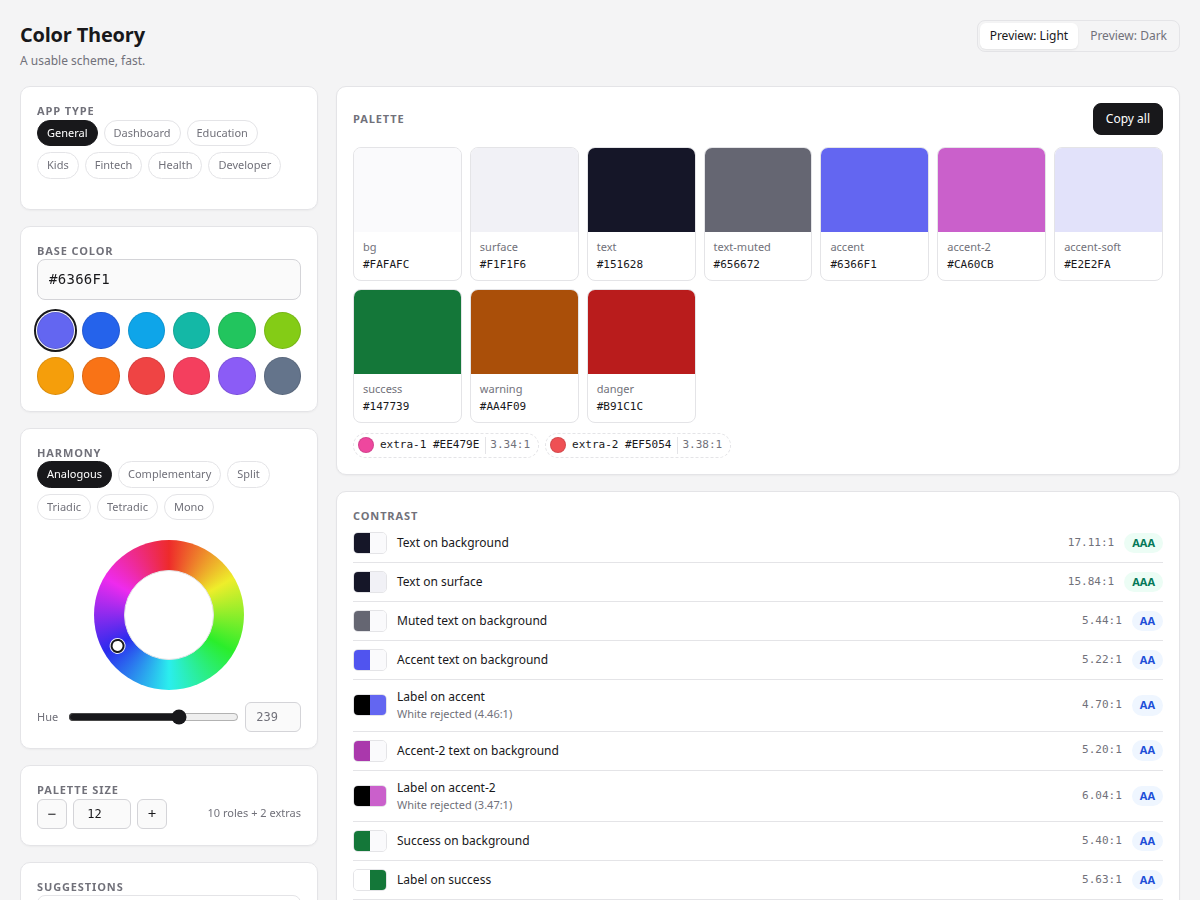
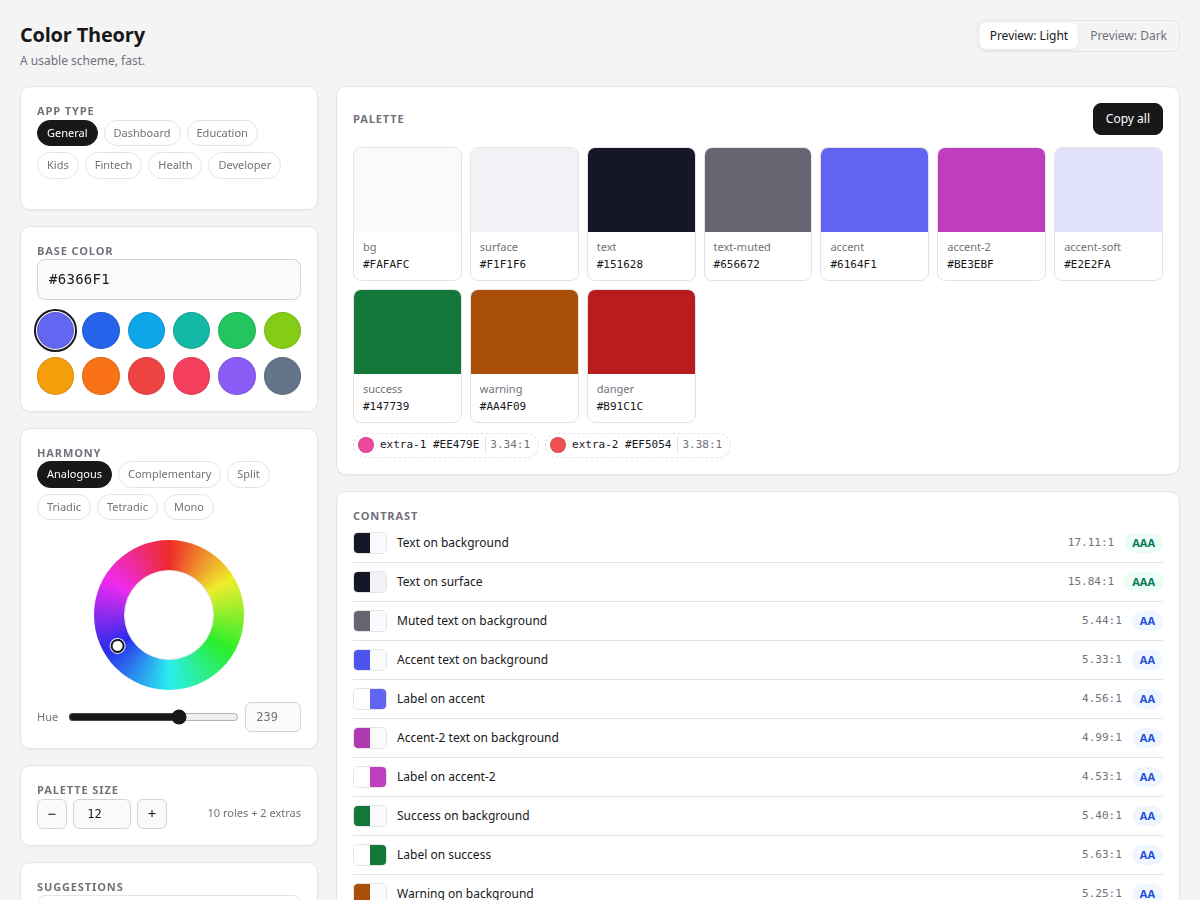
fix: pair every filled role with a label that suits it
Picking whichever of white and black had the higher ratio turned most
saturated fills into black-on-colour buttons. A green CTA came out as a
bright green slab with black text: it passed AA, but it read like an
unstyled default.

Follow the tonal rule instead. A light theme walks each fill (accent,
accent-2, success, warning, danger) down until a white label clears 4.5:1;
a dark theme walks it up until a near-black label does. The label pairing
is now predictable per theme, the fills stay in the same hue, and the
preview reads on-* colours straight from the palette instead of
re-measuring them in the view.

Changed region(s): [[0.2775, 0.7467, 0.9867, 1.0], [0.7708, 0.1556, 0.8942, 0.3111]]

diff --git a/color.js b/color.js
@@ -642,7 +642,30 @@
       return ensureContrast(hex, surface, 3);
     }
 
-    accentFinal = visibleFill(accentFinal);
+    // A filled control carries a label, and the label has to read on the
+    // fill. Rather than flipping to black on every mid-tone fill (which is
+    // what picking the higher ratio does, and which looks like an unstyled
+    // default button), follow the tonal rule: a light-mode fill is deep
+    // enough for a white label, a dark-mode fill is light enough for a
+    // near-black one. That is also the same direction the visibility walk
+    // moves, so the two never fight.
+    function labelFill(hex) {
+      var fillHsl = rgbToHsl(hexToRgb(hex));
+      var label = light ? '#FFFFFF' : '#000000';
+      var direction = light ? -1 : 1;
+      var candidate = hex;
+      for (var i = 1; i <= 100; i++) {
+        if (contrastRatio(label, candidate) >= 4.5) return candidate;
+        candidate = rgbToHex(hslToRgb({
+          h: fillHsl.h,
+          s: fillHsl.s,
+          l: clamp(fillHsl.l + direction * 0.005 * i, 0.01, 0.99)
+        }));
+      }
+      return candidate;
+    }
+
+    accentFinal = labelFill(visibleFill(accentFinal));
 
     var rule = harmonyById(opts.harmonyId);
     var accent2;
@@ -661,7 +684,7 @@
         accentFinal, accent2HueValue, s, l, type, rule.id === 'analogous' ? 0.6 : 1
       );
     }
-    accent2 = visibleFill(accent2);
+    accent2 = labelFill(visibleFill(accent2));
 
     var extraSat = shapeSaturation(s, type, 'accent');
     var extraL = clamp(l, 0.12, 0.9);
@@ -680,9 +703,9 @@
     // Surface is the harder background in both modes (darker than the page in
     // light mode, lighter in dark mode), so a colour that clears it also
     // clears the page.
-    var success = refineSemantic(semantic.success, accentHue, semantic, surface, 4.5);
-    var warning = refineSemantic(semantic.warning, accentHue, semantic, surface, 4.5);
-    var danger = refineSemantic(semantic.danger, accentHue, semantic, surface, 4.5);
+    var success = labelFill(refineSemantic(semantic.success, accentHue, semantic, surface, 4.5));
+    var warning = labelFill(refineSemantic(semantic.warning, accentHue, semantic, surface, 4.5));
+    var danger = labelFill(refineSemantic(semantic.danger, accentHue, semantic, surface, 4.5));
 
     var size = normalizeSize(opts.size);
     var keptDefs;
@@ -756,18 +779,14 @@
     var textBg = palette.surface || palette.bg;
     var accentText = palette.accent ? ensureContrast(palette.accent, textBg, 4.5) : null;
     var accent2Text = palette.accent2 ? ensureContrast(palette.accent2, textBg, 4.5) : null;
-    var onAccent = palette.accent ? pickReadable(palette.accent, '#FFFFFF') : null;
-    var onAccent2 = palette.accent2 ? pickReadable(palette.accent2, '#FFFFFF') : null;
-    var onSuccess = palette.success ? pickReadable(palette.success, '#FFFFFF') : null;
-    var onWarning = palette.warning ? pickReadable(palette.warning, '#FFFFFF') : null;
-    var onDanger = palette.danger ? pickReadable(palette.danger, '#FFFFFF') : null;
-
-    function rejectedWhite(fill, chosen) {
-      if (!fill || chosen === '#FFFFFF') return null;
-      var white = contrastRatio('#FFFFFF', fill);
-      if (white >= 4.5) return null;
-      return 'White rejected (' + formatRatio(white) + ':1)';
-    }
+    // The fills were walked to meet these labels, so the pairing is known
+    // rather than measured after the fact.
+    var onFill = light ? '#FFFFFF' : '#000000';
+    var onAccent = palette.accent ? onFill : null;
+    var onAccent2 = palette.accent2 ? onFill : null;
+    var onSuccess = palette.success ? onFill : null;
+    var onWarning = palette.warning ? onFill : null;
+    var onDanger = palette.danger ? onFill : null;
 
     palette.accentText = accentText;
     palette.accent2Text = accent2Text;
@@ -791,20 +810,15 @@
     pushContrast('text-surface', 'Text on surface', palette.text, palette.surface);
     pushContrast('text-muted-bg', 'Muted text on background', palette.textMuted, palette.bg);
     pushContrast('accent-bg', 'Accent text on background', palette.accentText, palette.bg);
-    pushContrast('on-accent', 'Label on accent', onAccent, palette.accent,
-      rejectedWhite(palette.accent, onAccent));
+    pushContrast('on-accent', 'Label on accent', onAccent, palette.accent);
     pushContrast('accent2-bg', 'Accent-2 text on background', palette.accent2Text, palette.bg);
-    pushContrast('on-accent2', 'Label on accent-2', onAccent2, palette.accent2,
-      rejectedWhite(palette.accent2, onAccent2));
+    pushContrast('on-accent2', 'Label on accent-2', onAccent2, palette.accent2);
     pushContrast('success-bg', 'Success on background', palette.success, palette.bg);
-    pushContrast('on-success', 'Label on success', onSuccess, palette.success,
-      rejectedWhite(palette.success, onSuccess));
+    pushContrast('on-success', 'Label on success', onSuccess, palette.success);
     pushContrast('warning-bg', 'Warning on background', palette.warning, palette.bg);
-    pushContrast('on-warning', 'Label on warning', onWarning, palette.warning,
-      rejectedWhite(palette.warning, onWarning));
+    pushContrast('on-warning', 'Label on warning', onWarning, palette.warning);
     pushContrast('danger-bg', 'Danger on background', palette.danger, palette.bg);
-    pushContrast('on-danger', 'Label on danger', onDanger, palette.danger,
-      rejectedWhite(palette.danger, onDanger));
+    pushContrast('on-danger', 'Label on danger', onDanger, palette.danger);
 
     return palette;
   }

diff --git a/tests/palette.test.js b/tests/palette.test.js
@@ -32,9 +32,12 @@ test('extra hues follow the table', () => {
   assert.deepStrictEqual(C.extraHues(10, 'monochromatic'), []);
 });
 
-test('accent is the input verbatim', () => {
+test('accent keeps the input hue and is deep enough for its label', () => {
   const p = C.buildPalette({ hex: '6366f1', harmonyId: 'triadic', mode: 'light' });
-  assert.strictEqual(p.accent, '#6366F1');
+  const input = C.rgbToHsl(C.hexToRgb('#6366F1'));
+  const accent = C.rgbToHsl(C.hexToRgb(p.accent));
+  assert.ok(Math.abs(input.h - accent.h) <= 2, 'the accent hue drifted');
+  assert.ok(C.contrastRatio(p.onAccent, p.accent) >= 4.5, 'the label does not read on the accent');
 });
 
 test('text passes AA on bg and surface for every hue in both modes', () => {
@@ -329,12 +332,13 @@ test('the default palette is unchanged when no size is given', () => {
   assert.strictEqual(p.extras.length, 2);
 });
 
-test('accent and accent-2 get text-safe twins, and the fills stay exact', () => {
+test('accent and accent-2 get text-safe twins, and their fills carry a label', () => {
   for (const mode of ['light', 'dark']) {
     const p = C.buildPalette({ hex: '#6366F1', harmonyId: 'analogous', mode });
-    assert.strictEqual(p.accent, '#6366F1');
     assert.ok(C.contrastRatio(p.accentText, p.bg) >= 4.5, `${mode} accent text`);
     assert.ok(C.contrastRatio(p.accent2Text, p.bg) >= 4.5, `${mode} accent-2 text`);
+    assert.ok(C.contrastRatio(p.onAccent, p.accent) >= 4.5, `${mode} label on accent`);
+    assert.ok(C.contrastRatio(p.onAccent2, p.accent2) >= 4.5, `${mode} label on accent-2`);
     const row = p.contrast.find((c) => c.key === 'accent-bg');
     assert.strictEqual(row.fg, p.accentText, `${mode} row uses the text-safe accent`);
     const row2 = p.contrast.find((c) => c.key === 'accent2-bg');
@@ -384,14 +388,30 @@ test('analogous puts accent-2 nearest, above the extras, and calms it', () => {
   assert.ok(accent2.s < accent.s, 'analogous accent-2 should be calmer than the accent');
 });
 
-test('a rejected white label is noted in the contrast row', () => {
-  const p = C.buildPalette({ hex: '#6366F1', harmonyId: 'analogous', mode: 'light' });
-  const row = p.contrast.find((c) => c.key === 'on-accent');
-  assert.strictEqual(row.fg, '#000000');
-  assert.ok(/White rejected/.test(row.note), `expected a note, got ${row.note}`);
-  const passing = C.buildPalette({ hex: '#0B0D14', harmonyId: 'analogous', mode: 'light' })
-    .contrast.find((c) => c.key === 'on-accent');
-  assert.strictEqual(passing.note, null);
+test('fill labels follow the theme instead of flipping to black on mid-tones', () => {
+  // Picking whichever label has the higher ratio turned most saturated fills
+  // into black-on-colour buttons. A light theme now pairs every fill with a
+  // white label, and walks the fill until that label clears AA. A dark theme
+  // does the mirror image for a near-black label.
+  const pairs = [
+    ['onAccent', 'accent'],
+    ['onAccent2', 'accent2'],
+    ['onSuccess', 'success'],
+    ['onWarning', 'warning'],
+    ['onDanger', 'danger']
+  ];
+  for (const hex of ['#6366F1', '#0BDB0B', '#EF4444', '#F59E0B']) {
+    const light = C.buildPalette({ hex, harmonyId: 'analogous', mode: 'light' });
+    for (const [on, fill] of pairs) {
+      assert.strictEqual(light[on], '#FFFFFF', `light ${hex} ${on}`);
+      assert.ok(C.contrastRatio(light[on], light[fill]) >= 4.5, `light ${hex} ${on}`);
+    }
+    const dark = C.buildPalette({ hex, harmonyId: 'analogous', mode: 'dark' });
+    for (const [on, fill] of pairs) {
+      assert.strictEqual(dark[on], '#000000', `dark ${hex} ${on}`);
+      assert.ok(C.contrastRatio(dark[on], dark[fill]) >= 4.5, `dark ${hex} ${on}`);
+    }
+  }
 });
 
 test('monochromatic extras are unique at every size and base lightness', () => {

diff --git a/app.js b/app.js
@@ -411,7 +411,7 @@
     els.previewCard.style.setProperty('--pv-accent2', accent2);
     els.previewCard.style.setProperty('--pv-accent2-text', palette.accent2Text || accent2);
     els.previewCard.style.setProperty('--pv-accent-soft', accentSoft);
-    els.previewCard.style.setProperty('--pv-on-accent', C.pickReadable(palette.accent, '#FFFFFF'));
+    els.previewCard.style.setProperty('--pv-on-accent', palette.onAccent || '#FFFFFF');
     // Each label colour is measured against the fill it sits on. on-accent-2
     // is the palette's own token for accent-2; on-soft and on-surface are
     // measured against the soft tint and the surface respectively.
@@ -421,9 +421,9 @@
     els.previewCard.style.setProperty('--pv-success', success);
     els.previewCard.style.setProperty('--pv-warning', warning);
     els.previewCard.style.setProperty('--pv-danger', danger);
-    els.previewCard.style.setProperty('--pv-on-success', C.pickReadable(success, '#FFFFFF'));
-    els.previewCard.style.setProperty('--pv-on-warning', C.pickReadable(warning, '#FFFFFF'));
-    els.previewCard.style.setProperty('--pv-on-danger', C.pickReadable(danger, '#FFFFFF'));
+    els.previewCard.style.setProperty('--pv-on-success', palette.onSuccess || '#FFFFFF');
+    els.previewCard.style.setProperty('--pv-on-warning', palette.onWarning || '#FFFFFF');
+    els.previewCard.style.setProperty('--pv-on-danger', palette.onDanger || '#FFFFFF');
 
     els.previewCard.innerHTML = window.Preview.markup(state.appType);
 

diff --git a/tests/app-types.test.js b/tests/app-types.test.js
@@ -17,7 +17,8 @@ test('general is the default and reproduces the current palette', () => {
   assert.deepStrictEqual(general.roles, plain.roles);
   assert.deepStrictEqual(general.extras, plain.extras);
   assert.deepStrictEqual(general.contrast, plain.contrast);
-  assert.strictEqual(general.accent, '#6366F1');
+  assert.strictEqual(general.accent, plain.accent);
+  assert.ok(C.contrastRatio(general.onAccent, general.accent) >= 4.5);
 });
 
 test('every app type keeps text readable in both themes', () => {
